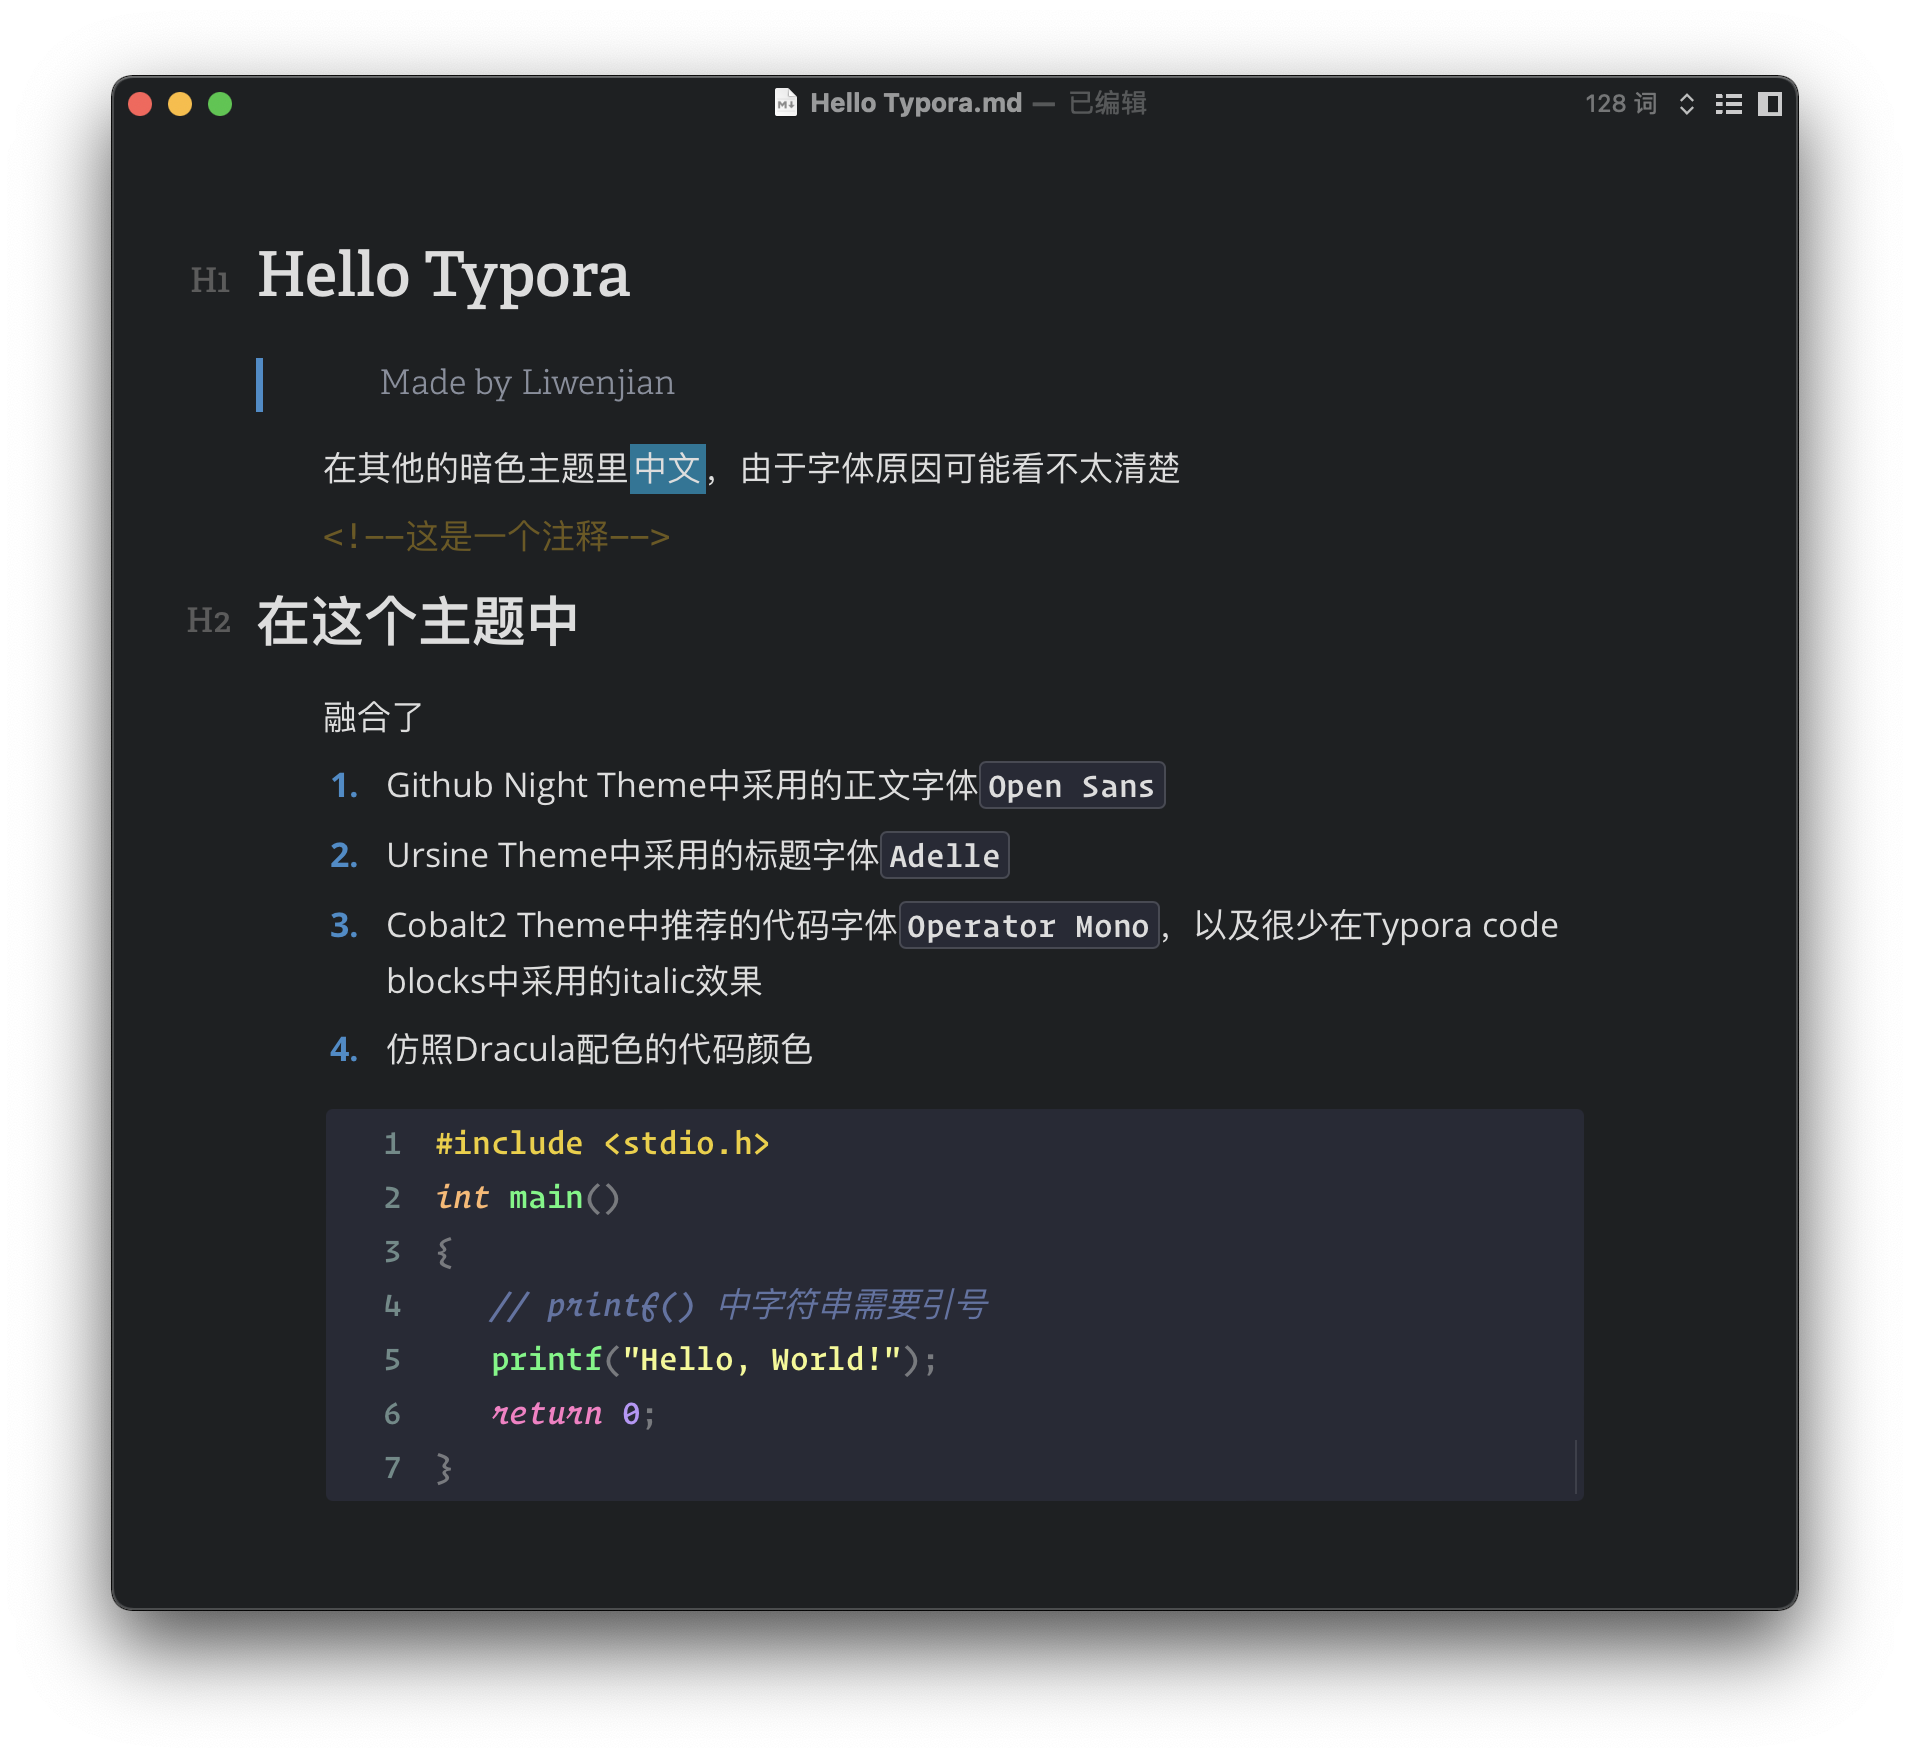
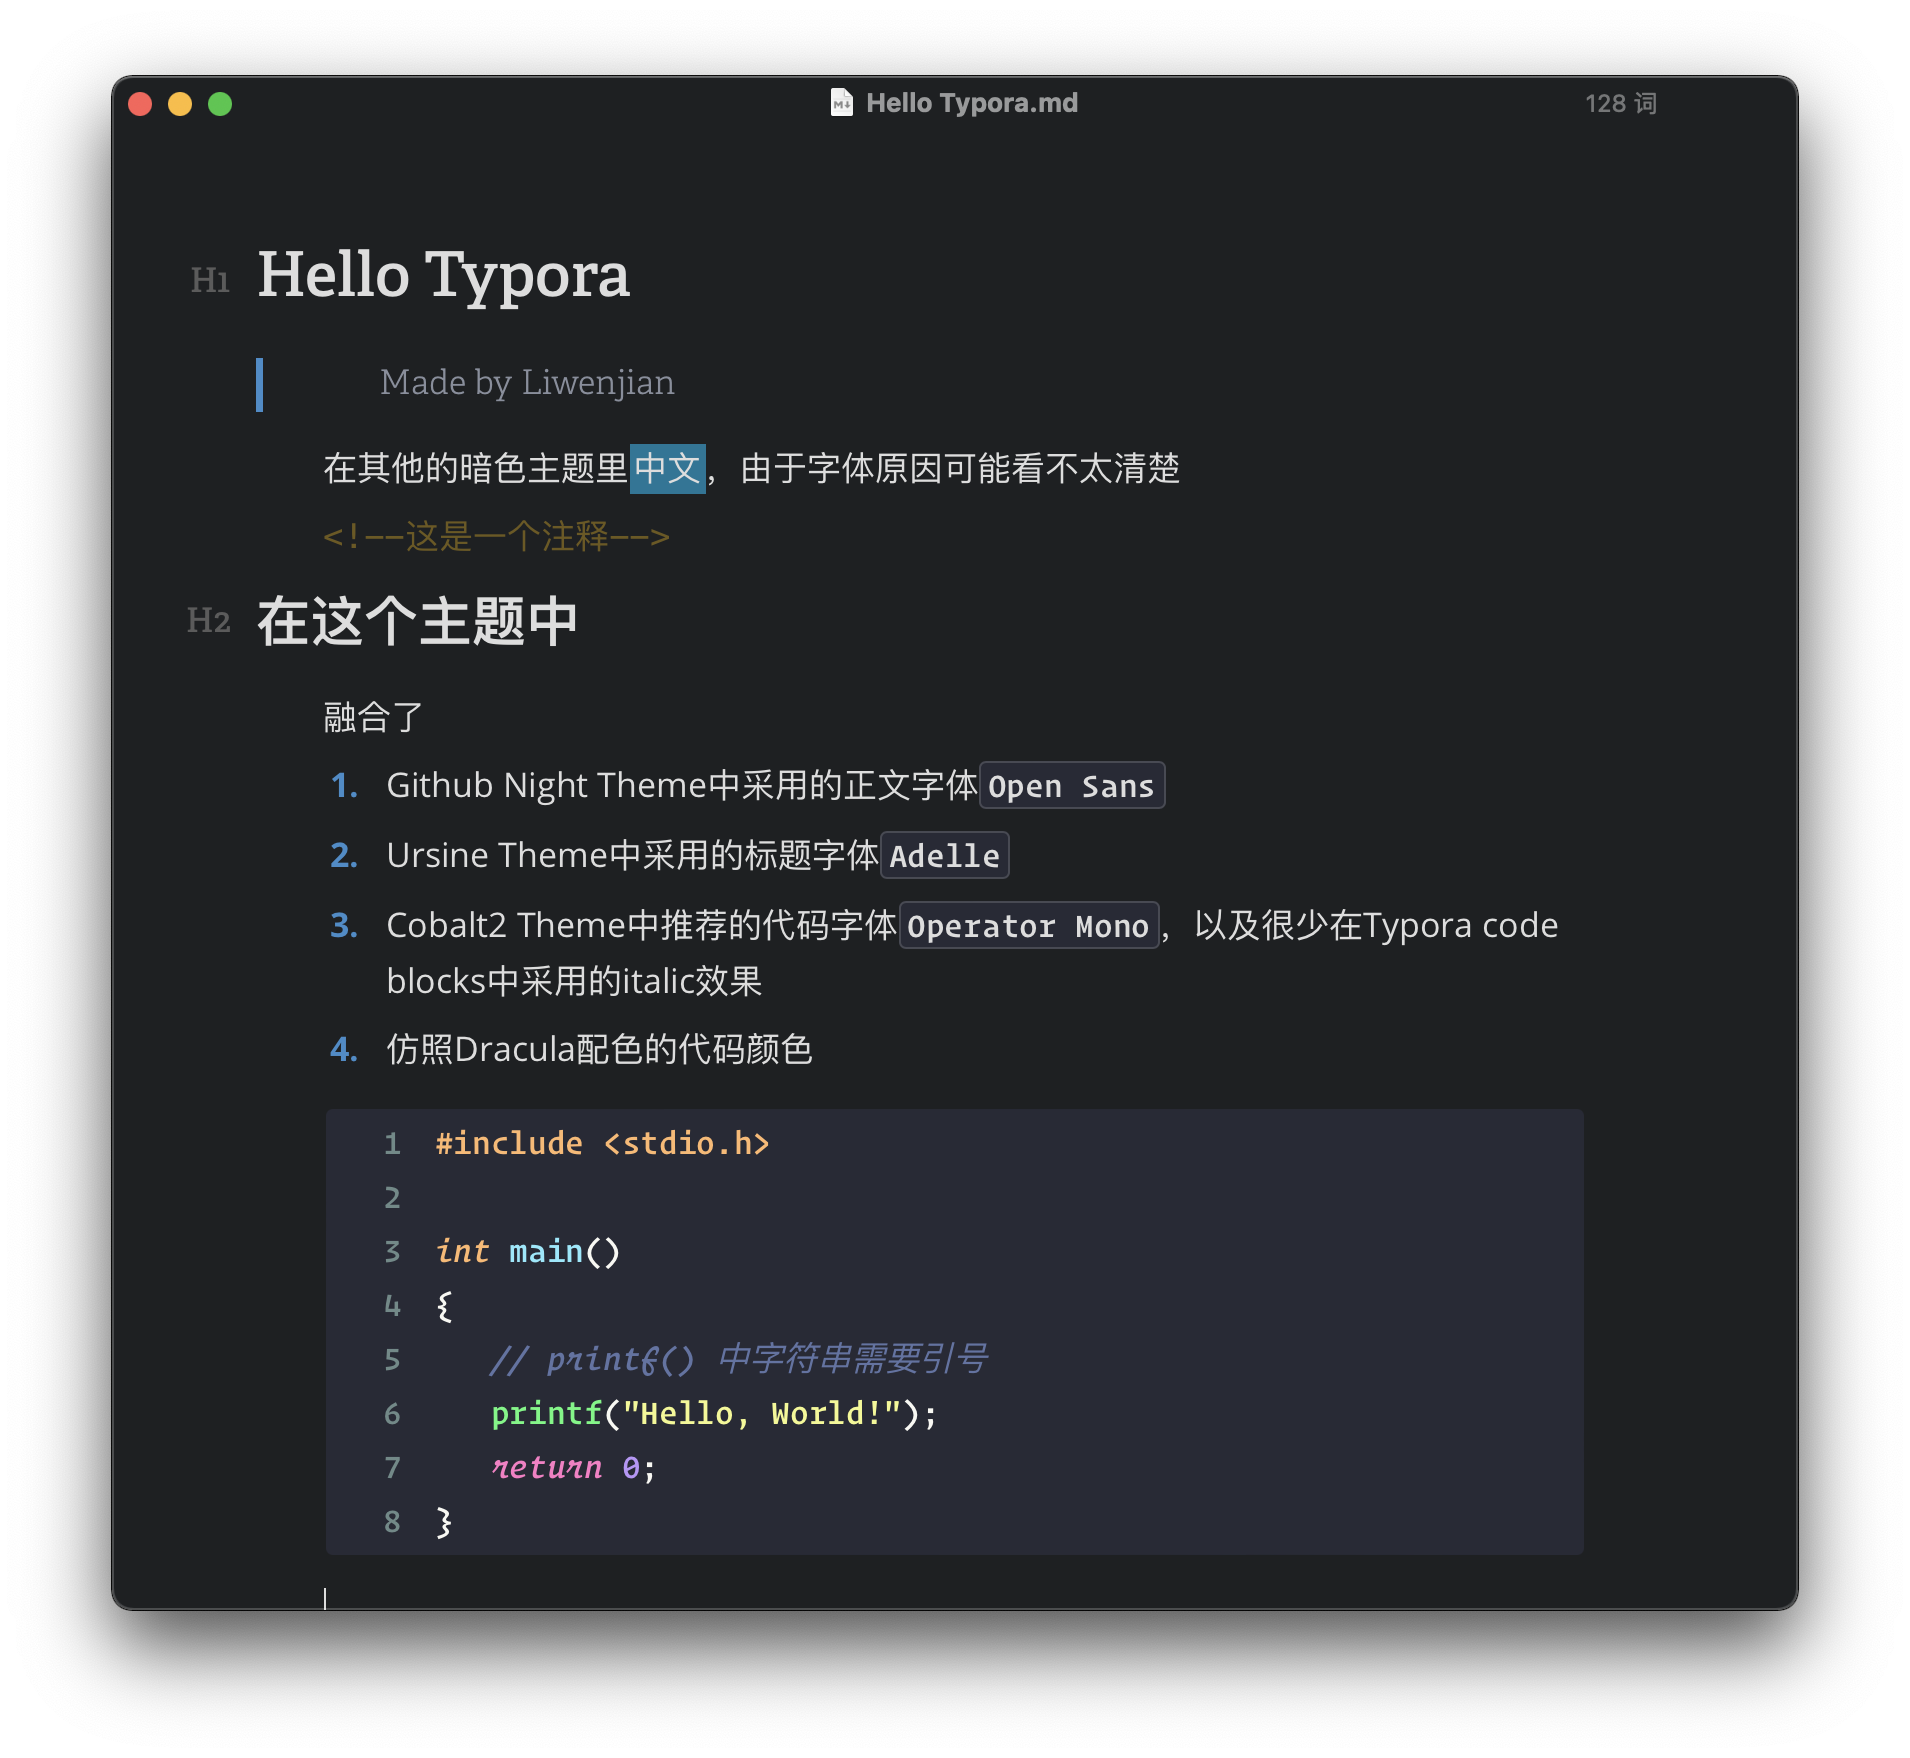
change color

diff --git a/my-dark.css b/my-dark.css
@@ -104,109 +104,109 @@
 
 .cm-s-inner.CodeMirror, .cm-s-inner .CodeMirror-gutters {
     background-color: #282a36 !important;
-    color: #f8f8f263 !important;
+    color: #f8f8f2 !important;
     border: none;
-}
+  }
 
-.cm-s-inner .CodeMirror-gutters {
+  .cm-s-inner .CodeMirror-gutters {
     width: 5ch;
     color: #6d8a88;
-}
+  }
 
-.cm-s-inner .CodeMirror-cursor {
-    border-left: solid thin #ffffff46 !important;
-}
+  .cm-s-inner .CodeMirror-cursor {
+    border-left: solid thin #f8f8f2 !important;
+  }
 
-.cm-s-inner .CodeMirror-linenumber {
+  .cm-s-inner .CodeMirror-linenumber {
     width: 4ch !important;
     color: #6D8A88;
-}
+  }
 
-.cm-s-inner .CodeMirror-line::selection, .cm-s-inner .CodeMirror-line::-moz-selection,
-.cm-s-inner .CodeMirror-line > span::selection,
-.cm-s-inner .CodeMirror-line > span::-moz-selection,
-.cm-s-inner .CodeMirror-line > span > span::selection,
-.cm-s-inner .CodeMirror-line > span > span::-moz-selection {
+  .cm-s-inner .CodeMirror-line::selection, .cm-s-inner .CodeMirror-line::-moz-selection,
+  .cm-s-inner .CodeMirror-line > span::selection,
+  .cm-s-inner .CodeMirror-line > span::-moz-selection,
+  .cm-s-inner .CodeMirror-line > span > span::selection,
+  .cm-s-inner .CodeMirror-line > span > span::-moz-selection {
     background: rgba(255, 255, 255, 0.1);
-}
+  }
 
-.cm-s-inner span.cm-comment {
+  .cm-s-inner span.cm-comment {
     color: #6272a4;
     font-style: italic;
-}
+  }
 
-.cm-s-inner span.cm-string, .cm-s-inner span.cm-string-2 {
+  .cm-s-inner span.cm-string, .cm-s-inner span.cm-string-2 {
     color: #f1fa8c;
-}
+  }
 
-.cm-s-inner span.cm-number {
+  .cm-s-inner span.cm-number {
     color: #bd93f9;
-}
+  }
 
-.cm-s-inner span.cm-variable, .cm-s-inner span.cm-variable-2 {
+  .cm-s-inner span.cm-variable, .cm-s-inner span.cm-variable-2 {
     color: #50fa7b;
-}
+  }
 
-.cm-s-inner span.cm-def {
-    color: #50fa7b;
-}
+  .cm-s-inner span.cm-def {
+    color: #8be9fd;
+  }
 
-.cm-s-inner span.cm-operator {
+  .cm-s-inner span.cm-operator {
     color: #ff79c6;
-}
+  }
 
-.cm-s-inner span.cm-keyword {
+  .cm-s-inner span.cm-keyword {
     color: #ff79c6;
     font-style: italic;
-}
+  }
 
-.cm-s-inner span.cm-atom {
+  .cm-s-inner span.cm-atom {
     color: #bd93f9;
-}
+  }
 
-.cm-s-inner span.cm-meta {
-    color: #eecf22;
-}
+  .cm-s-inner span.cm-meta {
+    color: #ffb86c;
+  }
 
-.cm-s-inner span.cm-tag {
+  .cm-s-inner span.cm-tag {
     color: #ff79c6;
-}
+  }
 
-.cm-s-inner span.cm-attribute {
+  .cm-s-inner span.cm-attribute {
     color: #50fa7b;
-}
+  }
 
-.cm-s-inner span.cm-qualifier {
+  .cm-s-inner span.cm-qualifier {
     color: #50fa7b;
-}
+  }
 
-.cm-s-inner span.cm-property {
+  .cm-s-inner span.cm-property {
     color: #66d9ef;
-}
+  }
 
-.cm-s-inner span.cm-builtin {
+  .cm-s-inner span.cm-builtin {
     color: #50fa7b;
-}
+  }
 
-.cm-s-inner span.cm-variable-3, .cm-s-inner span.cm-type {
+  .cm-s-inner span.cm-variable-3, .cm-s-inner span.cm-type {
     color: #ffb86c;
     font-style: italic;
-}
+  }
 
-.md-fences.md-focus .cm-s-inner .CodeMirror-activeline-background {
+  .md-fences.md-focus .cm-s-inner .CodeMirror-activeline-background {
     background: rgba(255, 255, 255, 0.1);
-}
+  }
 
-.cm-s-inner .CodeMirror-matchingbracket {
+  .cm-s-inner .CodeMirror-matchingbracket {
     text-decoration: underline;
     color: white !important;
-}
+  }
 
-.cm-s-inner .CodeMirror-selected, .cm-s-inner .CodeMirror-selectedtext {
+  .cm-s-inner .CodeMirror-selected, .cm-s-inner .CodeMirror-selectedtext {
     background: #3b4254 !important;
     color: inherit;
     text-shadow: none;
-}
+  }
 
 #fences-auto-suggest .active {
     background: #3c3c3c;
